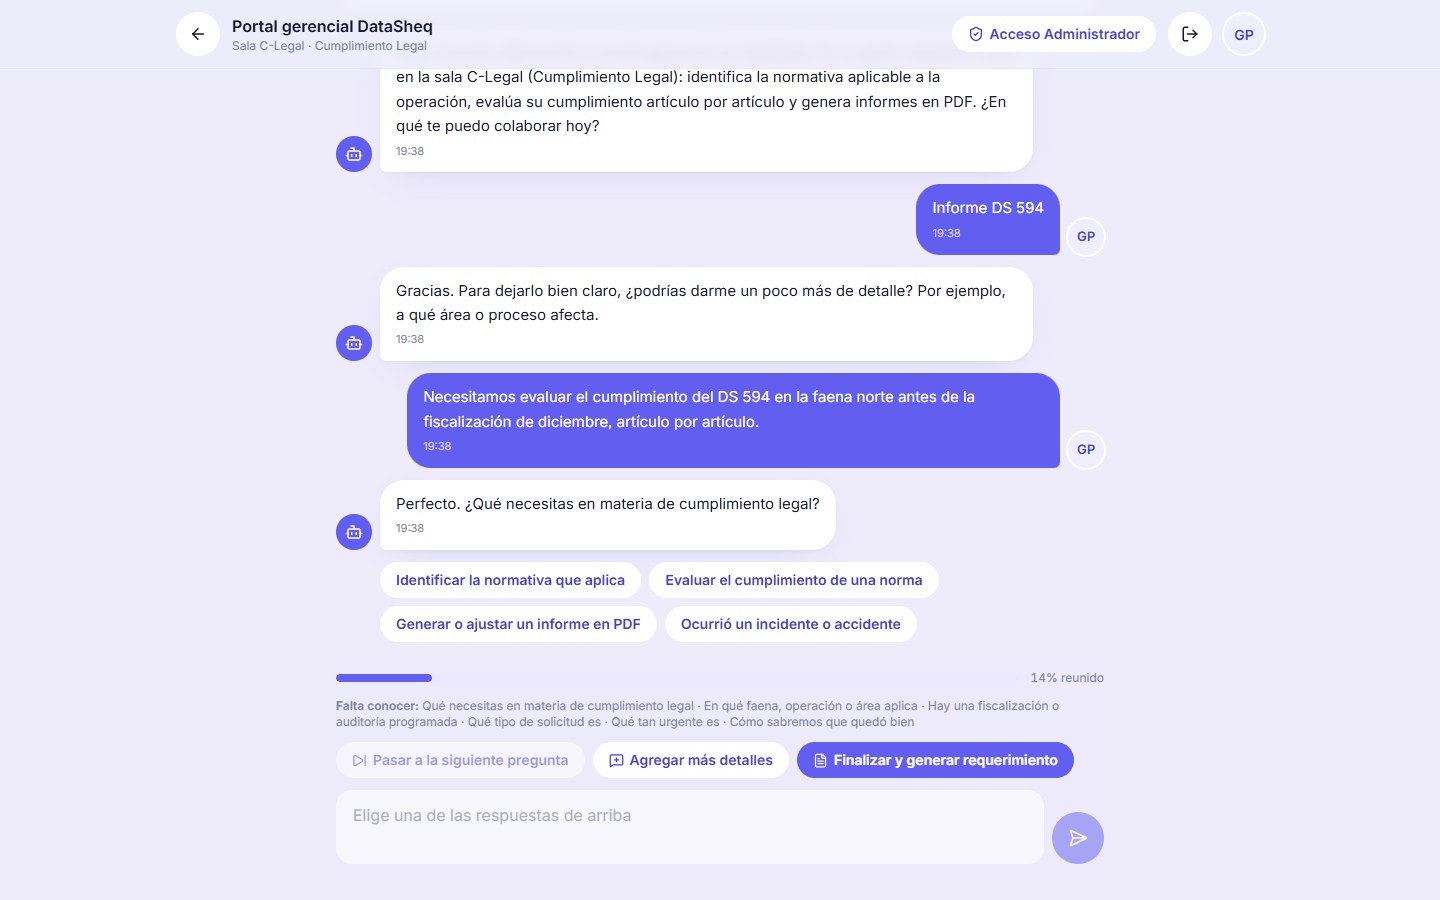
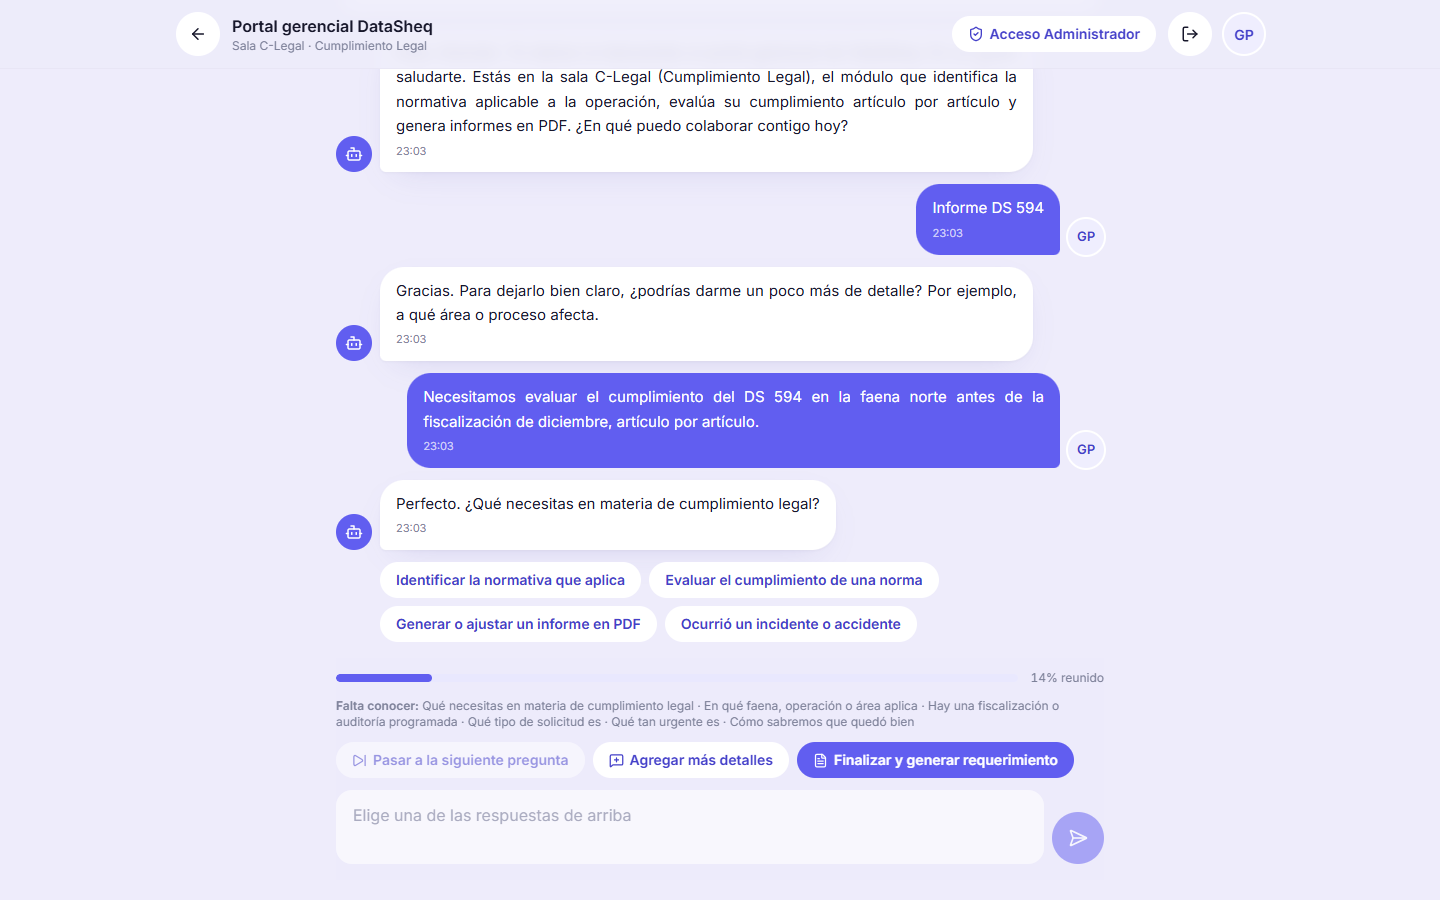
Portal gerencial: texto justificado y redacción revisada del asistente
- Mensajes del chat y saludo del portal al iniciar sesión con alineación justificada (y guiones
  automáticos en español para que no queden espacios grandes en pantallas angostas).
- Saludo de las salas: «Te damos la bienvenida» (en vez de «Bienvenido», que asume el género), la
  descripción del módulo como «…, el módulo que identifica…» (antes quedaba un verbo sin sujeto tras los
  dos puntos) y «¿En qué puedo colaborar contigo hoy?» («colaborar» no lleva complemento directo).
- Despedida: «Fue un gusto colaborar contigo» y sin repetir «quedó» tres veces.
- Pregunta inicial de los árboles y su documento actualizados; capturas v09-22, v09-23, v09-24 y v09-27.

diff --git a/lib/chat/servicio.ts b/lib/chat/servicio.ts
@@ -143,8 +143,8 @@ export async function generarRequerimiento(db: DB, c: Conversacion, p: Persona) 
   const issue = await publicarIssue(db, c.id);
   const t = codigoTicket(ticket);
   const despedida = issue.ok
-    ? `Muchas gracias, ${p.nombre.split(/\s+/)[0]}. Generé el requerimiento ${t} y lo envié al equipo de desarrollo. Fue un gusto colaborarte; la sala ya quedó liberada.`
-    : `Muchas gracias, ${p.nombre.split(/\s+/)[0]}. Generé el requerimiento ${t} y quedó registrado; el envío a GitHub quedó pendiente y el administrador lo completará. La sala ya quedó liberada.`;
+    ? `Muchas gracias, ${p.nombre.split(/\s+/)[0]}. Generé el requerimiento ${t} y lo envié al equipo de desarrollo. Fue un gusto colaborar contigo; la sala ya está libre.`
+    : `Muchas gracias, ${p.nombre.split(/\s+/)[0]}. Generé el requerimiento ${t} y quedó registrado. El envío a GitHub está pendiente y el administrador lo completará. La sala ya está libre.`;
   db.prepare("INSERT INTO chat_mensajes (conversacion_id, autor, texto) VALUES (?, 'robot', ?)").run(c.id, despedida);
   return { ticket: t, requerimiento: r, issue };
 }

diff --git a/scripts/test-logica.ts b/scripts/test-logica.ts
@@ -797,7 +797,12 @@ async function main() {
     const d = dbControl();
     const { conversacion: c, nueva } = entrarSala(d, "c-legal", ana, t0);
     assert.equal(nueva, true);
-    assert.match(mensajesChat(d, c.id)[0].texto, /^Hola, Ana\. Bienvenido al portal gerencial de DataSheq\. Es un gusto saludarte\./);
+    assert.equal(
+      mensajesChat(d, c.id)[0].texto,
+      "Hola, Ana. Te damos la bienvenida al portal gerencial de DataSheq. Es un gusto saludarte. Estás en la sala C-Legal " +
+        "(Cumplimiento Legal), el módulo que identifica la normativa aplicable a la operación, evalúa su cumplimiento " +
+        "artículo por artículo y genera informes en PDF. ¿En qué puedo colaborar contigo hoy?",
+    );
     assert.throws(() => entrarSala(d, "c-legal", beto, mas(1)), (e: ErrorSala) => e.status === 409 && e.message === MENSAJE_SALA_OCUPADA);
     // otra sala sí está libre
     assert.equal(entrarSala(d, "c-previene", beto, mas(1)).nueva, true);

diff --git a/lib/chat/salas.ts b/lib/chat/salas.ts
@@ -76,9 +76,9 @@ export const expiraEn = (ultimaActividad: string) =>
 export function saludo(m: Modulo, nombre: string): string {
   const primerNombre = nombre.trim().split(/\s+/)[0] || nombre;
   return (
-    `Hola, ${primerNombre}. Bienvenido al portal gerencial de DataSheq. Es un gusto saludarte. ` +
-    `Estás en la sala ${m.nombre} (${m.area}): ${m.descripcion.charAt(0).toLowerCase()}${m.descripcion.slice(1)} ` +
-    "¿En qué te puedo colaborar hoy?"
+    `Hola, ${primerNombre}. Te damos la bienvenida al portal gerencial de DataSheq. Es un gusto saludarte. ` +
+    `Estás en la sala ${m.nombre} (${m.area}), el módulo que ${m.descripcion.charAt(0).toLowerCase()}${m.descripcion.slice(1)} ` +
+    "¿En qué puedo colaborar contigo hoy?"
   );
 }
 

diff --git a/scripts/arboles-md.ts b/scripts/arboles-md.ts
@@ -100,7 +100,7 @@ export function documento(): string {
     "",
     "**Estructura de cada entrevista**",
     "",
-    "1. **Inicio** (todas las salas): «¿En qué te puedo colaborar hoy? Cuéntame brevemente qué necesitas.»",
+    "1. **Inicio** (todas las salas): «¿En qué puedo colaborar contigo hoy? Cuéntame brevemente qué necesitas.»",
     "   (texto, obligatorio, mínimo 25 caracteres).",
     "2. **Rama del módulo**: preguntas propias de la sala; algunas respuestas llevan a otra rama o sugieren otra sala.",
     "3. **Cierre común** (todas las salas): tipo de solicitud, urgencia, plazo, interesados, resultado esperado y comentario.",

diff --git a/components/gerencia/SalaChat.tsx b/components/gerencia/SalaChat.tsx
@@ -327,7 +327,7 @@ export default function SalaChat({ modulo, nombre, esAdmin }: { modulo: Modulo; 
                     )}
                     <div
                       className={cx(
-                        "max-w-[85%] whitespace-pre-wrap rounded-3xl px-4 py-3 text-sm leading-relaxed sm:text-[15px]",
+                        "max-w-[85%] whitespace-pre-wrap rounded-3xl px-4 py-3 text-justify text-sm leading-relaxed hyphens-auto sm:text-[15px]",
                         m.autor === "robot" ? "rounded-bl-md bg-superficie text-tinta shadow-tarjeta" : "rounded-br-md bg-indigo text-white",
                       )}
                     >

diff --git a/components/gerencia/Portal.tsx b/components/gerencia/Portal.tsx
@@ -42,7 +42,7 @@ export default function Portal({ nombre, aviso }: { nombre: string; aviso?: stri
         </span>
         <div>
           <h1 className="text-xl font-semibold text-tinta sm:text-2xl">Hola, {primerNombre}. Es un gusto saludarte.</h1>
-          <p className="mt-1 text-sm text-tinta-2 sm:text-base">
+          <p className="mt-1 text-justify text-sm text-tinta-2 hyphens-auto sm:text-base">
             Elige la sala del módulo sobre el que quieres levantar un requerimiento. Nuestro asistente te hará algunas
             preguntas y, al finalizar, enviará el requerimiento al equipo de desarrollo.
           </p>

diff --git a/lib/chat/arboles.ts b/lib/chat/arboles.ts
@@ -127,11 +127,11 @@ function cierreComun(): Nodo[] {
   ];
 }
 
-/** Pregunta inicial (responde al saludo «¿En qué te puedo colaborar hoy?»). */
+/** Pregunta inicial (responde al saludo «¿En qué puedo colaborar contigo hoy?»). */
 function inicio(siguiente: string): Nodo {
   return {
     id: "inicio",
-    pregunta: "¿En qué te puedo colaborar hoy? Cuéntame brevemente qué necesitas.",
+    pregunta: "¿En qué puedo colaborar contigo hoy? Cuéntame brevemente qué necesitas.",
     tipo: "texto",
     campo: "necesidad",
     obligatorio: true,

diff --git a/docs/arboles-de-decision.md b/docs/arboles-de-decision.md
@@ -8,7 +8,7 @@ pregunta, opciones que faltan o sobran, ramas, qué es obligatorio y qué no).
 
 **Estructura de cada entrevista**
 
-1. **Inicio** (todas las salas): «¿En qué te puedo colaborar hoy? Cuéntame brevemente qué necesitas.»
+1. **Inicio** (todas las salas): «¿En qué puedo colaborar contigo hoy? Cuéntame brevemente qué necesitas.»
    (texto, obligatorio, mínimo 25 caracteres).
 2. **Rama del módulo**: preguntas propias de la sala; algunas respuestas llevan a otra rama o sugieren otra sala.
 3. **Cierre común** (todas las salas): tipo de solicitud, urgencia, plazo, interesados, resultado esperado y comentario.
@@ -38,7 +38,7 @@ Recorrido: de 10 a 12 preguntas.
 
 ```mermaid
 flowchart TD
-  inicio["¿En qué te puedo colaborar hoy? Cuéntame brevemente qué necesitas."]
+  inicio["¿En qué puedo colaborar contigo hoy? Cuéntame brevemente qué necesitas."]
   legal_ambito["¿Qué necesitas en materia de cumplimiento legal?"]
   legal_norma["¿Qué ley, decreto o norma está involucrada? (por ejemplo, DS 594 o Ley…"]
   legal_informe["¿Qué necesitas del informe?"]
@@ -62,7 +62,7 @@ flowchart TD
 
 | Pregunta | Tipo | Obligatoria | Respuestas → siguiente |
 |---|---|---|---|
-| `inicio`<br>¿En qué te puedo colaborar hoy? Cuéntame brevemente qué necesitas. | Texto libre | Sí | → `legal.ambito`<br>mínimo 25 caracteres; si no, repregunta una vez |
+| `inicio`<br>¿En qué puedo colaborar contigo hoy? Cuéntame brevemente qué necesitas. | Texto libre | Sí | → `legal.ambito`<br>mínimo 25 caracteres; si no, repregunta una vez |
 | `legal.ambito`<br>¿Qué necesitas en materia de cumplimiento legal? | Opciones (una) | Sí | «Identificar la normativa que aplica» → `legal.operacion`<br>«Evaluar el cumplimiento de una norma» → `legal.norma`<br>«Generar o ajustar un informe en PDF» → `legal.informe`<br>«Ocurrió un incidente o accidente» → `legal.norma`, **sugiere C-Investiga** |
 | `legal.norma`<br>¿Qué ley, decreto o norma está involucrada? (por ejemplo, DS 594 o Ley 16.744) | Texto libre | Sí | → `legal.operacion`<br>mínimo 3 caracteres; si no, repregunta una vez |
 | `legal.informe`<br>¿Qué necesitas del informe? | Opciones (una) | Sí | «Un informe nuevo» → `legal.operacion`<br>«Cambiar el formato o contenido de uno existente» → `legal.operacion`<br>«Recibirlo en forma periódica» → `legal.operacion` |
@@ -78,7 +78,7 @@ Recorrido: 11 preguntas.
 
 ```mermaid
 flowchart TD
-  inicio["¿En qué te puedo colaborar hoy? Cuéntame brevemente qué necesitas."]
+  inicio["¿En qué puedo colaborar contigo hoy? Cuéntame brevemente qué necesitas."]
   controla_documento["¿Qué tipo de documentos están involucrados?"]
   controla_problema["¿Qué es lo que hoy no funciona bien?"]
   controla_versiones["¿Qué pasa hoy con las versiones? (por ejemplo, se usan copias antiguas…"]
@@ -101,7 +101,7 @@ flowchart TD
 
 | Pregunta | Tipo | Obligatoria | Respuestas → siguiente |
 |---|---|---|---|
-| `inicio`<br>¿En qué te puedo colaborar hoy? Cuéntame brevemente qué necesitas. | Texto libre | Sí | → `controla.documento`<br>mínimo 25 caracteres; si no, repregunta una vez |
+| `inicio`<br>¿En qué puedo colaborar contigo hoy? Cuéntame brevemente qué necesitas. | Texto libre | Sí | → `controla.documento`<br>mínimo 25 caracteres; si no, repregunta una vez |
 | `controla.documento`<br>¿Qué tipo de documentos están involucrados? | Opciones (varias) | Sí | «Procedimientos»<br>«Registros»<br>«Instructivos o formularios»<br>«Matrices de riesgo, PTS o planes de emergencia» **sugiere C-Previene**<br>«Otra» (respuesta escrita)<br>luego → `controla.problema` |
 | `controla.problema`<br>¿Qué es lo que hoy no funciona bien? | Opciones (una) | Sí | «El control de versiones» → `controla.versiones`<br>«El flujo de aprobación» → `controla.aprobadores`<br>«Los vencimientos y vigencias» → `controla.vigencia` |
 | `controla.versiones`<br>¿Qué pasa hoy con las versiones? (por ejemplo, se usan copias antiguas o no se sabe cuál es la vigente) | Texto libre | Sí | → `controla.notificar`<br>mínimo 15 caracteres; si no, repregunta una vez |
@@ -117,7 +117,7 @@ Recorrido: de 11 a 12 preguntas.
 
 ```mermaid
 flowchart TD
-  inicio["¿En qué te puedo colaborar hoy? Cuéntame brevemente qué necesitas."]
+  inicio["¿En qué puedo colaborar contigo hoy? Cuéntame brevemente qué necesitas."]
   previene_documento["¿Qué documentación preventiva está involucrada?"]
   previene_simulacro["¿También se necesita registrar los simulacros de emergencia?"]
   previene_faena["¿A qué faenas, áreas o procesos aplica?"]
@@ -137,7 +137,7 @@ flowchart TD
 
 | Pregunta | Tipo | Obligatoria | Respuestas → siguiente |
 |---|---|---|---|
-| `inicio`<br>¿En qué te puedo colaborar hoy? Cuéntame brevemente qué necesitas. | Texto libre | Sí | → `previene.documento`<br>mínimo 25 caracteres; si no, repregunta una vez |
+| `inicio`<br>¿En qué puedo colaborar contigo hoy? Cuéntame brevemente qué necesitas. | Texto libre | Sí | → `previene.documento`<br>mínimo 25 caracteres; si no, repregunta una vez |
 | `previene.documento`<br>¿Qué documentación preventiva está involucrada? | Opciones (una) | Sí | «Matrices de riesgo» → `previene.faena`<br>«Procedimientos de trabajo seguro (PTS)» → `previene.faena`<br>«Planes de emergencia» → `previene.simulacro`<br>«El reporte de un incidente» → `previene.faena`, **sugiere C-Investiga**<br>«Otra» (respuesta escrita)<br>luego → `previene.faena` |
 | `previene.simulacro`<br>¿También se necesita registrar los simulacros de emergencia? | Sí / No | Sí | «Sí» → `previene.faena`<br>«No» → `previene.faena` |
 | `previene.faena`<br>¿A qué faenas, áreas o procesos aplica? | Texto libre | Sí | → `previene.accion`<br>mínimo 3 caracteres; si no, repregunta una vez |
@@ -152,7 +152,7 @@ Recorrido: de 11 a 12 preguntas.
 
 ```mermaid
 flowchart TD
-  inicio["¿En qué te puedo colaborar hoy? Cuéntame brevemente qué necesitas."]
+  inicio["¿En qué puedo colaborar contigo hoy? Cuéntame brevemente qué necesitas."]
   lidera_actividad["¿Qué actividad de liderazgo en seguridad está involucrada?"]
   lidera_participantes["¿Qué cargos de la línea de mando participan?"]
   lidera_necesidad["¿Qué necesitas resolver?"]
@@ -175,7 +175,7 @@ flowchart TD
 
 | Pregunta | Tipo | Obligatoria | Respuestas → siguiente |
 |---|---|---|---|
-| `inicio`<br>¿En qué te puedo colaborar hoy? Cuéntame brevemente qué necesitas. | Texto libre | Sí | → `lidera.actividad`<br>mínimo 25 caracteres; si no, repregunta una vez |
+| `inicio`<br>¿En qué puedo colaborar contigo hoy? Cuéntame brevemente qué necesitas. | Texto libre | Sí | → `lidera.actividad`<br>mínimo 25 caracteres; si no, repregunta una vez |
 | `lidera.actividad`<br>¿Qué actividad de liderazgo en seguridad está involucrada? | Opciones (varias) | Sí | «Caminatas de seguridad»<br>«Observaciones de conducta»<br>«Compromisos de la línea de mando»<br>«Formación de los líderes» **sugiere C-Capacita**<br>«Otra» (respuesta escrita)<br>luego → `lidera.participantes` |
 | `lidera.participantes`<br>¿Qué cargos de la línea de mando participan? | Texto libre | Sí | → `lidera.necesidad`<br>mínimo 5 caracteres; si no, repregunta una vez |
 | `lidera.necesidad`<br>¿Qué necesitas resolver? | Opciones (una) | Sí | «Planificar el calendario de actividades» → `lidera.frecuencia`<br>«Registrarlas en terreno desde el celular» → `lidera.sin_conexion`<br>«Medir el cumplimiento y reportarlo» → `lidera.metas` |
@@ -191,7 +191,7 @@ Recorrido: de 10 a 12 preguntas.
 
 ```mermaid
 flowchart TD
-  inicio["¿En qué te puedo colaborar hoy? Cuéntame brevemente qué necesitas."]
+  inicio["¿En qué puedo colaborar contigo hoy? Cuéntame brevemente qué necesitas."]
   acredita_quienes["¿A quiénes aplica la acreditación?"]
   acredita_empresas["¿Cuántas empresas contratistas y cuántas personas, aproximadamente?"]
   acredita_requisito["¿Qué requisitos de acreditación están involucrados?"]
@@ -215,7 +215,7 @@ flowchart TD
 
 | Pregunta | Tipo | Obligatoria | Respuestas → siguiente |
 |---|---|---|---|
-| `inicio`<br>¿En qué te puedo colaborar hoy? Cuéntame brevemente qué necesitas. | Texto libre | Sí | → `acredita.quienes`<br>mínimo 25 caracteres; si no, repregunta una vez |
+| `inicio`<br>¿En qué puedo colaborar contigo hoy? Cuéntame brevemente qué necesitas. | Texto libre | Sí | → `acredita.quienes`<br>mínimo 25 caracteres; si no, repregunta una vez |
 | `acredita.quienes`<br>¿A quiénes aplica la acreditación? | Opciones (una) | Sí | «Trabajadores propios» → `acredita.requisito`<br>«Contratistas» → `acredita.empresas`<br>«Ambos» → `acredita.empresas` |
 | `acredita.empresas`<br>¿Cuántas empresas contratistas y cuántas personas, aproximadamente? | Texto libre | No (se puede saltar) | → `acredita.requisito` |
 | `acredita.requisito`<br>¿Qué requisitos de acreditación están involucrados? | Opciones (varias) | Sí | «Documentos (contrato, seguros, etc.)»<br>«Exámenes ocupacionales»<br>«Cursos obligatorios»<br>«Organizar la capacitación en sí» **sugiere C-Capacita**<br>«Otra» (respuesta escrita)<br>luego → `acredita.problema` |
@@ -231,7 +231,7 @@ Recorrido: de 10 a 11 preguntas.
 
 ```mermaid
 flowchart TD
-  inicio["¿En qué te puedo colaborar hoy? Cuéntame brevemente qué necesitas."]
+  inicio["¿En qué puedo colaborar contigo hoy? Cuéntame brevemente qué necesitas."]
   capacita_necesidad["¿Qué necesitas en capacitación y conocimiento?"]
   capacita_evaluacion["¿Cómo se debe evaluar?"]
   capacita_certificado["¿El certificado debe emitirse automáticamente al aprobar?"]
@@ -252,7 +252,7 @@ flowchart TD
 
 | Pregunta | Tipo | Obligatoria | Respuestas → siguiente |
 |---|---|---|---|
-| `inicio`<br>¿En qué te puedo colaborar hoy? Cuéntame brevemente qué necesitas. | Texto libre | Sí | → `capacita.necesidad`<br>mínimo 25 caracteres; si no, repregunta una vez |
+| `inicio`<br>¿En qué puedo colaborar contigo hoy? Cuéntame brevemente qué necesitas. | Texto libre | Sí | → `capacita.necesidad`<br>mínimo 25 caracteres; si no, repregunta una vez |
 | `capacita.necesidad`<br>¿Qué necesitas en capacitación y conocimiento? | Opciones (una) | Sí | «Programar capacitaciones» → `capacita.publico`<br>«Evaluar lo aprendido» → `capacita.evaluacion`<br>«Emitir certificados» → `capacita.certificado`<br>«Ordenar el conocimiento de la organización» → `capacita.publico`<br>«Cursos exigidos para acreditar contratistas» → `capacita.publico`, **sugiere C-Acredita** |
 | `capacita.evaluacion`<br>¿Cómo se debe evaluar? | Opciones (una) | Sí | «Una prueba al final» → `capacita.publico`<br>«Con nota mínima para aprobar» → `capacita.publico`<br>«Evaluación práctica en terreno» → `capacita.publico`<br>«Otra» (respuesta escrita)<br>luego → `capacita.publico` |
 | `capacita.certificado`<br>¿El certificado debe emitirse automáticamente al aprobar? | Sí / No | Sí | «Sí» → `capacita.publico`<br>«No, lo aprueba alguien antes» → `capacita.publico` |
@@ -267,7 +267,7 @@ Recorrido: de 9 a 10 preguntas.
 
 ```mermaid
 flowchart TD
-  inicio["¿En qué te puedo colaborar hoy? Cuéntame brevemente qué necesitas."]
+  inicio["¿En qué puedo colaborar contigo hoy? Cuéntame brevemente qué necesitas."]
   investiga_necesidad["¿En qué parte del proceso de incidentes necesitas apoyo?"]
   investiga_terreno["¿Qué debe permitir el reporte en terreno?"]
   investiga_metodo["¿Qué método de investigación usan?"]
@@ -289,7 +289,7 @@ flowchart TD
 
 | Pregunta | Tipo | Obligatoria | Respuestas → siguiente |
 |---|---|---|---|
-| `inicio`<br>¿En qué te puedo colaborar hoy? Cuéntame brevemente qué necesitas. | Texto libre | Sí | → `investiga.necesidad`<br>mínimo 25 caracteres; si no, repregunta una vez |
+| `inicio`<br>¿En qué puedo colaborar contigo hoy? Cuéntame brevemente qué necesitas. | Texto libre | Sí | → `investiga.necesidad`<br>mínimo 25 caracteres; si no, repregunta una vez |
 | `investiga.necesidad`<br>¿En qué parte del proceso de incidentes necesitas apoyo? | Opciones (una) | Sí | «Reportar desde terreno» → `investiga.terreno`<br>«Investigar las causas» → `investiga.metodo`<br>«Seguir las acciones correctivas» → `investiga.acciones`<br>«Evaluar el cumplimiento legal tras un incidente» → `investiga.tipo`, **sugiere C-Legal** |
 | `investiga.terreno`<br>¿Qué debe permitir el reporte en terreno? | Opciones (varias) | Sí | «Adjuntar fotos»<br>«Funcionar sin conexión»<br>«Registrar la ubicación»<br>«Otra» (respuesta escrita)<br>luego → `investiga.tipo` |
 | `investiga.metodo`<br>¿Qué método de investigación usan? | Opciones (una) | Sí | «Árbol de causas» → `investiga.tipo`<br>«5 porqués» → `investiga.tipo`<br>«ICAM» → `investiga.tipo`<br>«Otra» (respuesta escrita)<br>luego → `investiga.tipo` |
